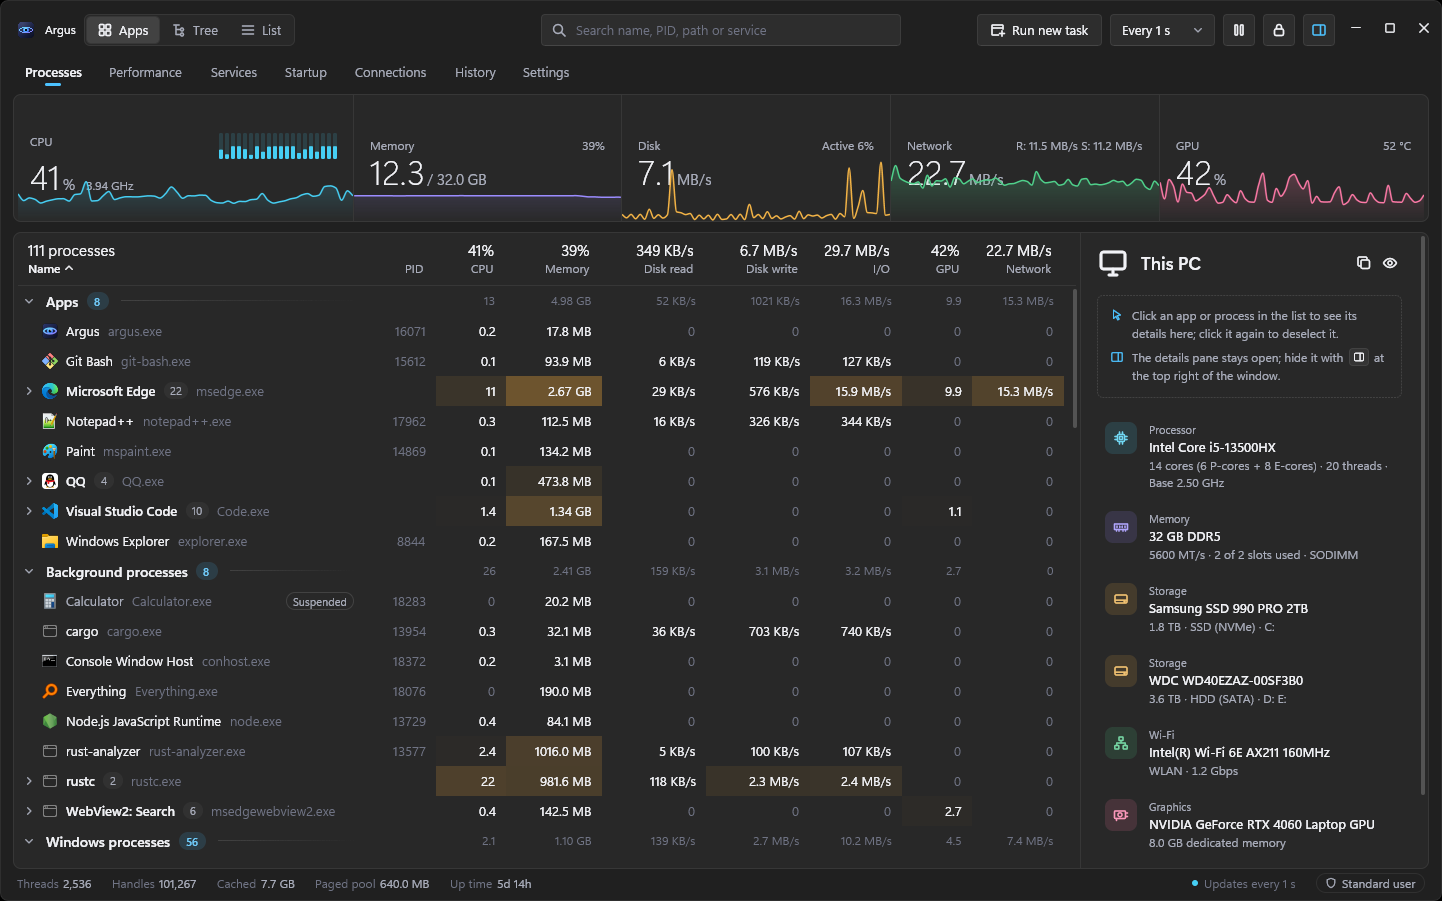
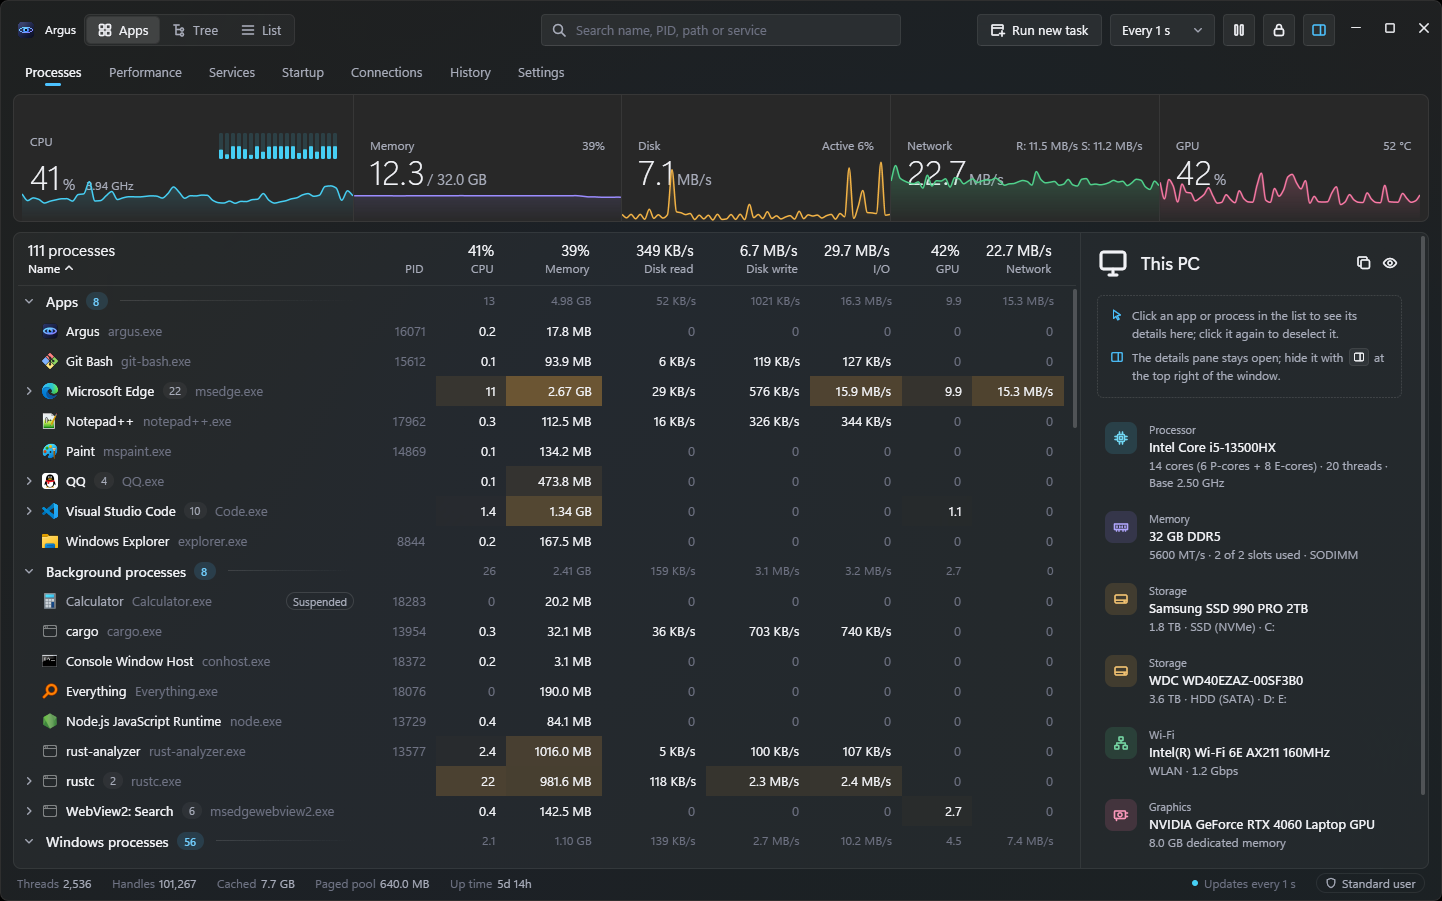
docs: 更新中英文 README 的激活态云母预览图

diff --git a/docs/AGENTS.md b/docs/AGENTS.md
@@ -4,7 +4,7 @@
 
 - `README.md`（仓库根目录）：对外公开的介绍，参考典型开源项目：是什么、特性、系统要求、怎么构建、快捷键摘要、文档入口、路线图摘要。保持简短，不放实现细节和测量过程。内部开发细则（提交规范、发布流程、CI）也不写进去，包括文档链接后的说明文字。
 - README 的标题 emoji 不要带变体选择符 U+FE0F（如 🛠、⌨、🗺）：GitHub 生成锚点时会保留这个不可见字符，`#-标题` 形式的链接就会失效。
-- 更新 README 预览图运行 `node scripts/readme-previews.mjs`。用当前源码构建的窗口，按名称升序展示模拟应用及其真实图标。四张图共用同一段连续实测的 CPU、内存、磁盘、网络和 GPU 负载，逐张核对中英文与深浅主题。
+- 更新 README 预览图运行 `node scripts/readme-previews.mjs`。用当前源码构建的窗口，捕获 Windows 11 的激活态 Mica 背景，按名称升序展示模拟应用及其真实图标。四张图共用同一段连续实测的 CPU、内存、磁盘、网络和 GPU 负载，逐张核对中英文与深浅主题。
 - 英文版 `README.en.md` 与 `README.md` 内容对应，改一边要同步另一边；两者顶部的语言切换行互相链接。英文截图（`screenshot-en-*.png`）用测试标识下的英文设置与模拟快照截取，模拟数据里的进程与服务描述会随之换成英文。英文版链接的 `docs/` 页面是中文的，链接处注明。
 - `docs/`：给用户和开发者看的详细信息。
 - `AGENTS.md`（根目录与各子目录）：只给 AI 代理看的规则与经验。不要把这些内容写进 README 或 docs，也不要把面向人的说明只写在 AGENTS.md 里。

diff --git a/docs/development/README.md b/docs/development/README.md
@@ -18,7 +18,9 @@
 
 安装打包需要 NSIS 3.13；可安装到默认目录，或通过 ARGUS_NSIS 指定 makensis.exe。构建日志、缓存与验证产物位于 target。
 
-README 预览使用窗口探针捕获独立测试窗口。五条曲线回放 `tools/window-probe/fixtures/readme-trace.json` 中约每秒一次的 60 个连续读数，保留相对采样时间、CPU 与 GPU 占用、内存占比、磁盘读写和网络收发速率。内存占比换算为模拟机器的容量，进程表按模拟进程的占比分配负载。应用图标取自对应程序的 Windows 图标资源。更新界面后重跑同一命令，即可用同一组数据对照新旧预览。
+README 预览在启用透明效果的 Windows 11 上生成。探针保持测试窗口位于底层，通过 `WM_NCACTIVATE` 让 Windows 绘制激活态 Mica，并与同一主题的失活截图对照。导出时，用 16 位浮点窗口采样补足云母底色的渐变，以有序抖动写入 sRGB PNG。底色以原生 SDR 读数为准，其余区域直接使用窗口原始像素。键盘焦点保留在当前应用。
+
+五条曲线回放 `tools/window-probe/fixtures/readme-trace.json` 中约每秒一次的 60 个连续读数，保留相对采样时间、CPU 与 GPU 占用、内存占比、磁盘读写和网络收发速率。内存占比换算为模拟机器的容量，进程表按模拟进程的占比分配负载。应用图标取自对应程序的 Windows 图标资源。更新界面后重跑同一命令，即可用同一组数据对照新旧预览。
 
 - [GPUI 与平台边界](gpui.md)
 - [构建与缓存](build.md)
